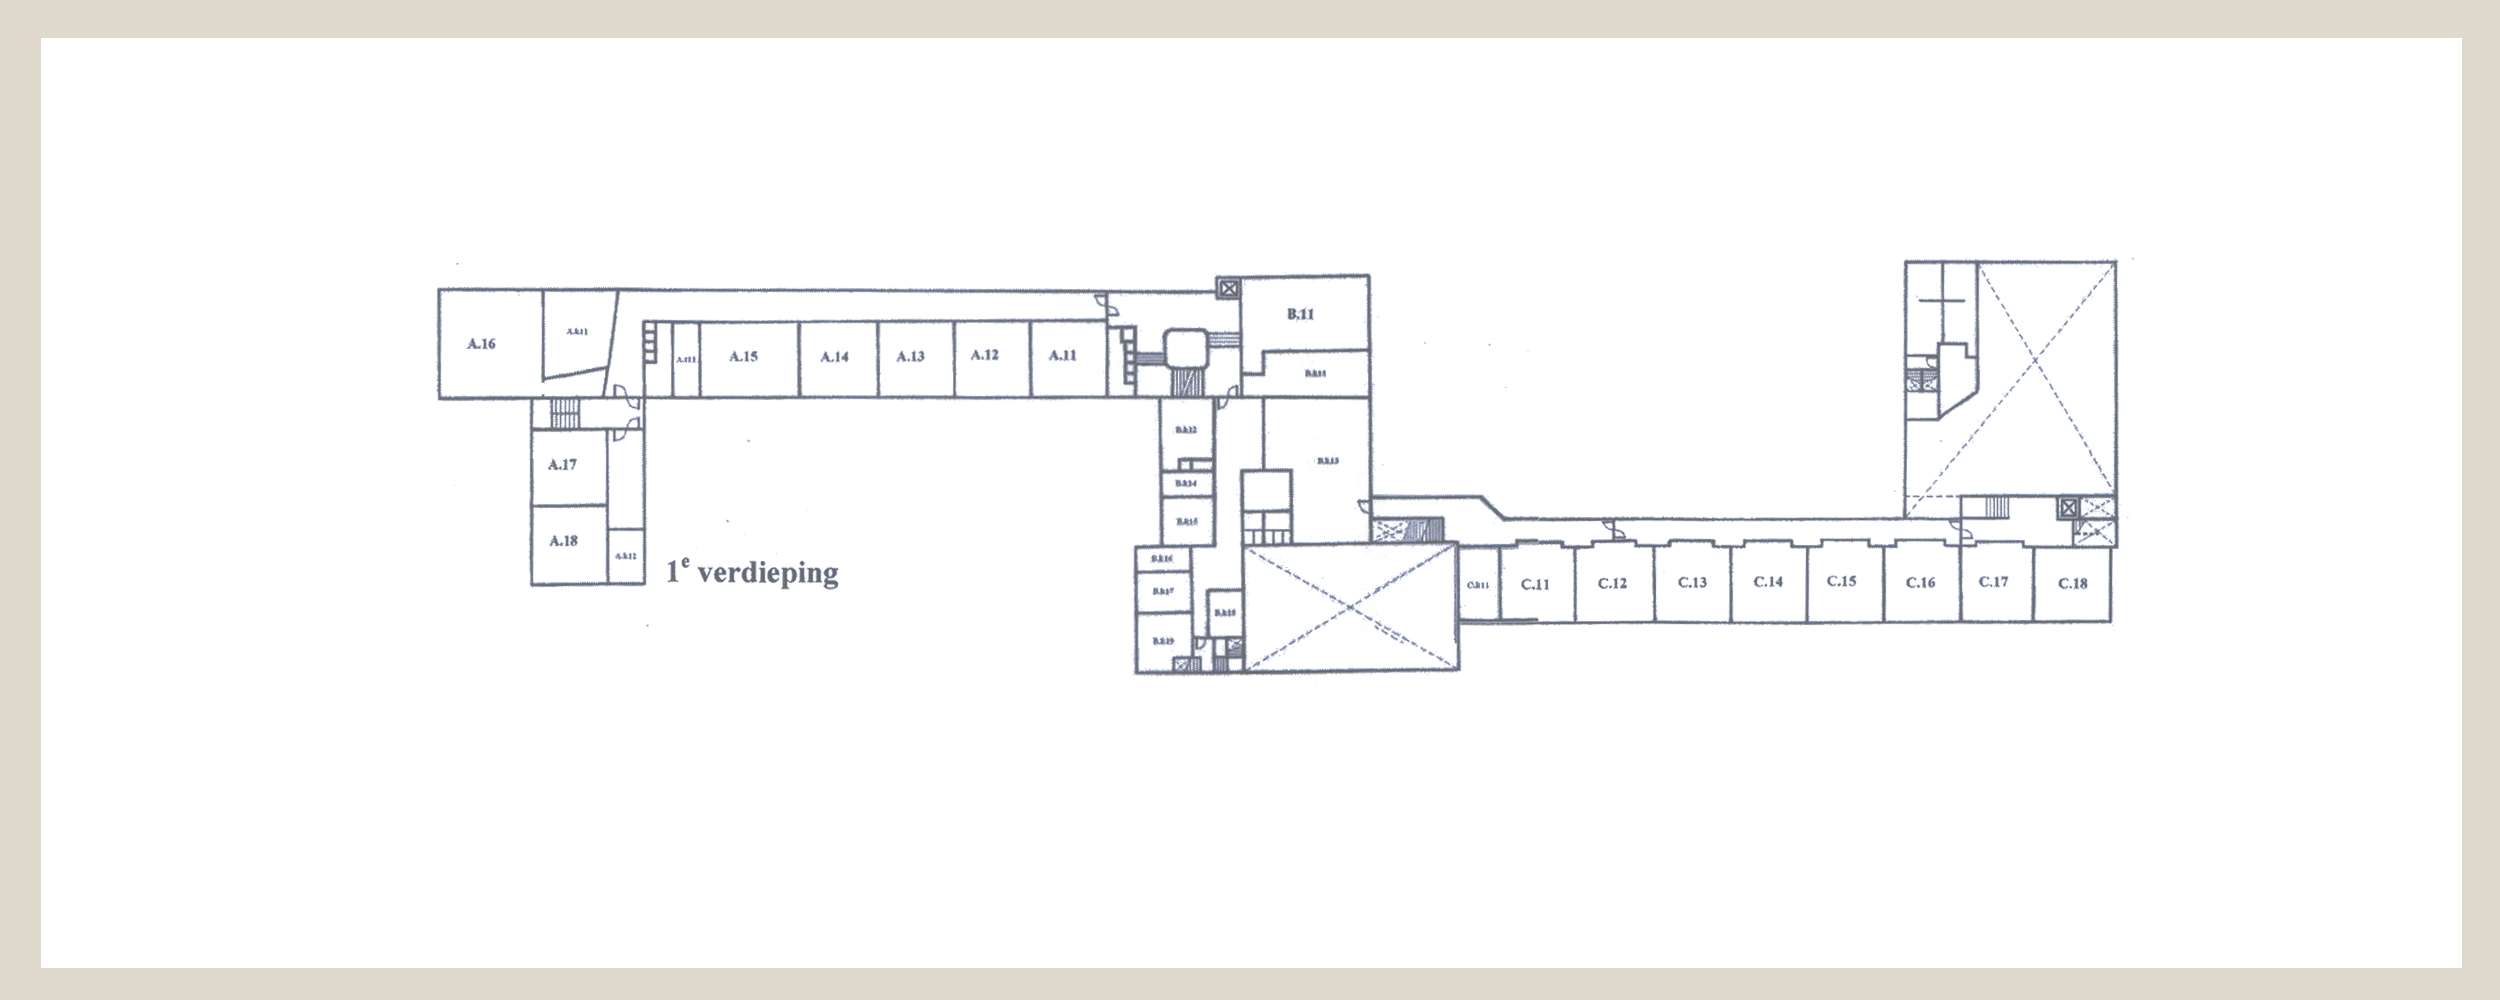
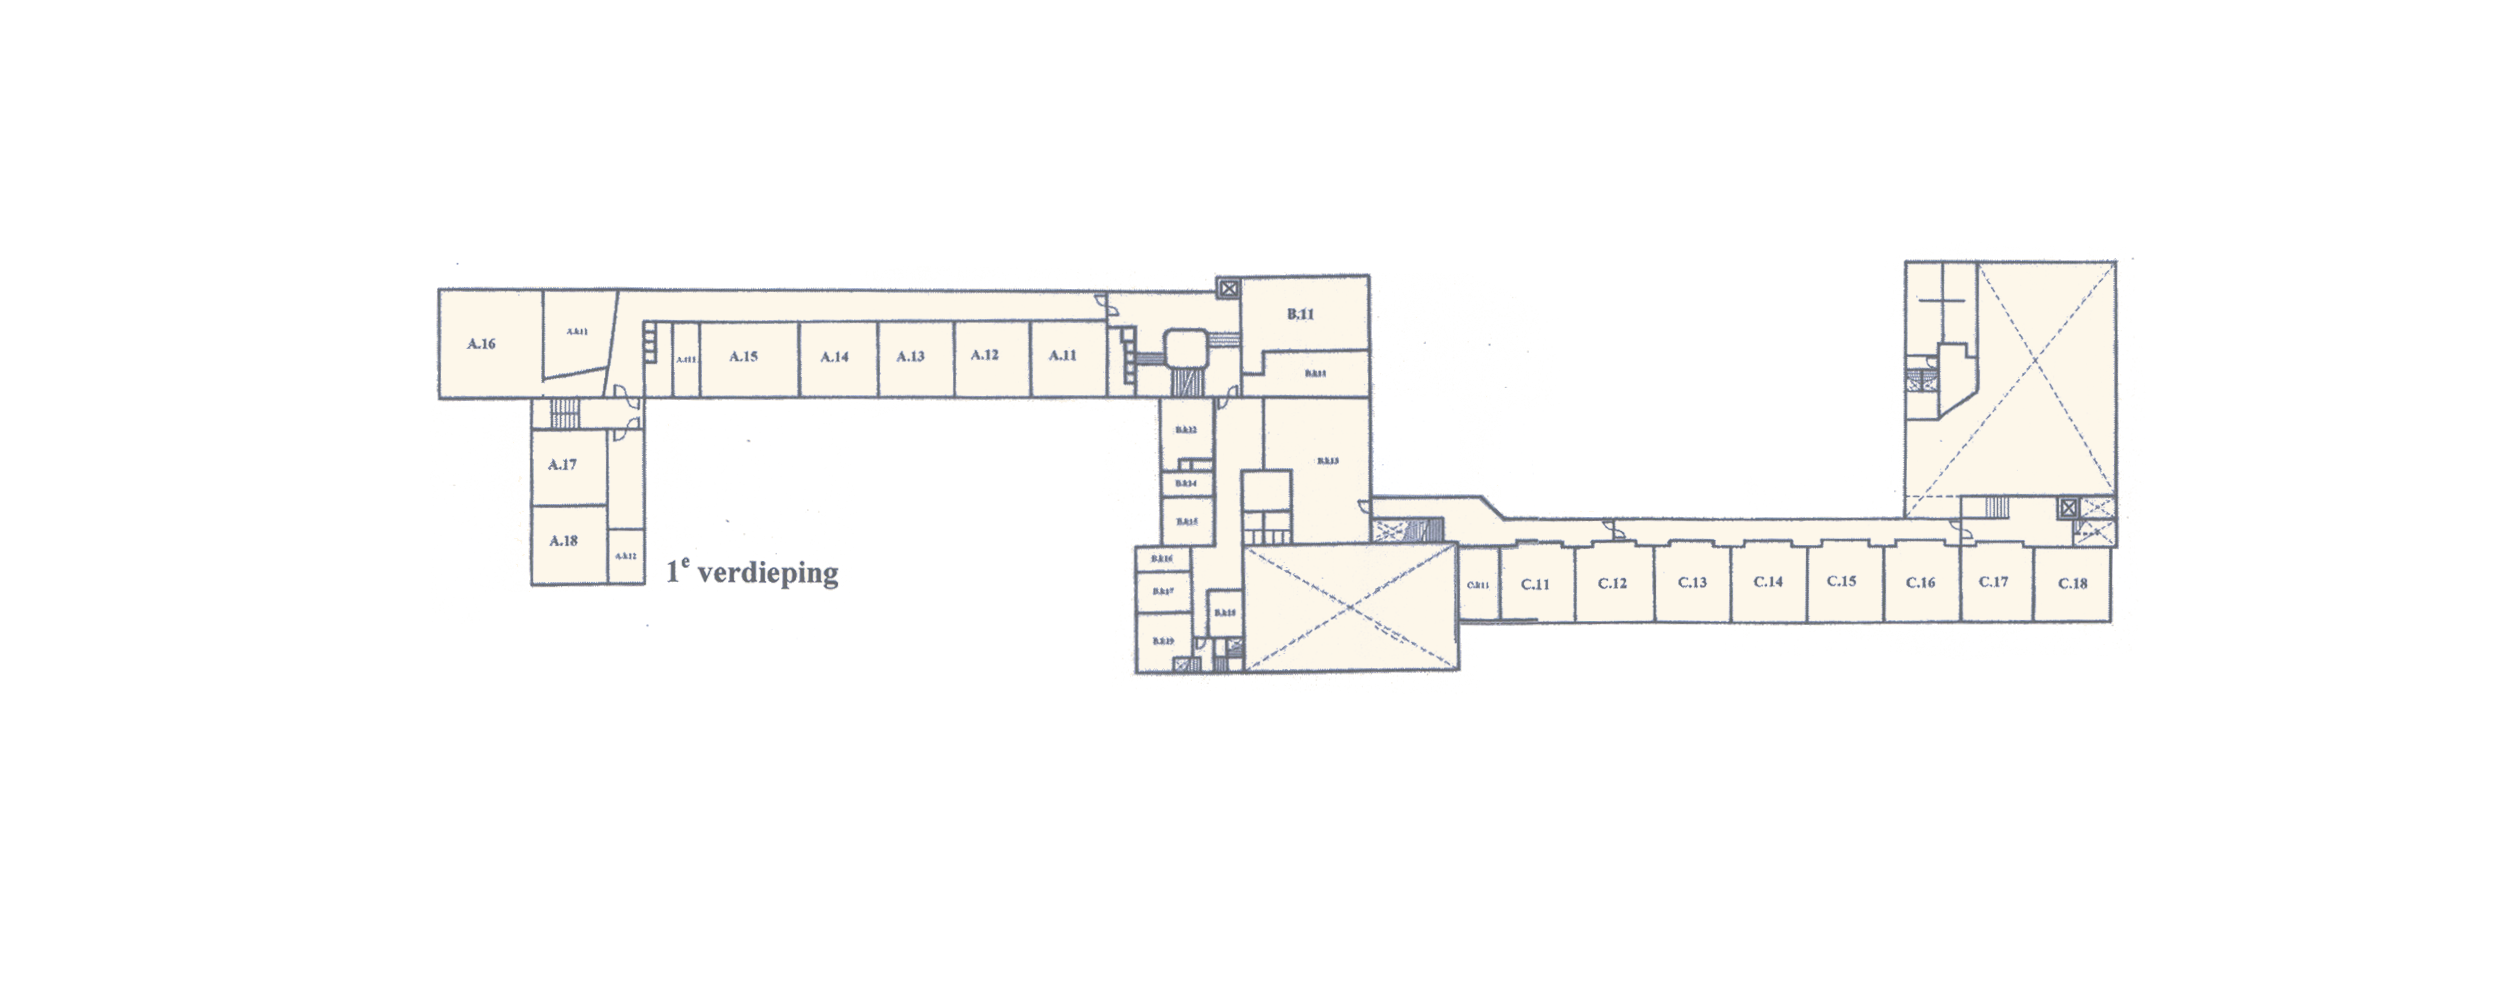
Update

Changed region(s): [[0.0, 0.0, 1.0, 1.0]]

diff --git a/js/controllers.js b/js/controllers.js
@@ -16,7 +16,7 @@ angular.module('app.controllers', [])
     var latLng = new google.maps.LatLng(position.coords.latitude, position.coords.longitude);
     var mapOptions = {
     center: {lat: 52.362398, lng: 4.825519},
-    zoom: 19,
+    zoom: 11,
     scrollwheel: false,
     navigationControl: false,
     mapTypeControl: false,
@@ -33,72 +33,68 @@ angular.module('app.controllers', [])
     };
 
 
-  /////////////////////////////////////////////
-  ////////////Floorplan Buttons///////////////
-  ///////////////////////////////////////////
+  ////////////////////////////////////////////////////////
+  ////////////Initialise floorplan overlay///////////////
+  //////////////////////////////////////////////////////
 
     var overlay;
     USGSOverlay.prototype = new google.maps.OverlayView();
 
-    function showFirstFloor(){
+    function buildMapWithOverlay(floor){
+
       // Load google map
       map = new google.maps.Map(document.getElementById("map"), mapOptions);
+      showLocation(map);
 
-      // Load floorplant overlay
-      var bounds = new google.maps.LatLngBounds(
-          new google.maps.LatLng(52.362200, 4.82440),
-          new google.maps.LatLng(52.362605, 4.825910));
-      var srcImage = 'img/2-A.png';
-      overlay = new USGSOverlay(bounds, srcImage, map);
-
-
-    }
-
-    function showSecondFloor(){
-      // Load google map
-      map = new google.maps.Map(document.getElementById("map"), mapOptions);
-
-      // Load floorplant overlay
-      var bounds = new google.maps.LatLngBounds(
-          new google.maps.LatLng(52.362200, 4.82440),
-          new google.maps.LatLng(52.362605, 4.825910));
-      var srcImage = 'img/smile.png';
-      overlay = new USGSOverlay(bounds, srcImage, map);
-
-
-    }
-
-    function showThirdFloor(){
-      // Load google map
-      map = new google.maps.Map(document.getElementById("map"), mapOptions);
-
-      // Load floorplant overlay
-      var bounds = new google.maps.LatLngBounds(
-          new google.maps.LatLng(52.362200, 4.82440),
-          new google.maps.LatLng(52.362605, 4.825910));
-      var srcImage = 'img/bier.jpg';
-      overlay = new USGSOverlay(bounds, srcImage, map);
-
-
-    }
-
-    new showFirstFloor();
-
-
-     $scope.showFirstFloor = function() {
-        showFirstFloor();
-      }
-      $scope.showSecondFloor = function() {
-        showSecondFloor();
-      }
-      $scope.showThirdFloor = function() {
-        showThirdFloor();
+      // Now load the right image for each floor
+      if(floor==1){
+        // Load floorplant overlay
+        var bounds = new google.maps.LatLngBounds(
+            new google.maps.LatLng(52.361950, 4.82385),
+            new google.maps.LatLng(52.362805, 4.827310));
+        var srcImage = 'img/beganegrond.png';
       }
 
+      if (floor==2){
+        // Load floorplant overlay
+        var bounds = new google.maps.LatLngBounds(
+            new google.maps.LatLng(52.361950, 4.82385),
+            new google.maps.LatLng(52.362805, 4.827310));
+        var srcImage = 'img/1e_verdieping.png';
+      }
 
-  //////////////////////////////////////////////
-  ////////////Image overlay code///////////////
+      if (floor==3){
+        // Load floorplant overlay
+        var bounds = new google.maps.LatLngBounds(
+            new google.maps.LatLng(52.361950, 4.82385),
+            new google.maps.LatLng(52.362805, 4.827310));
+        var srcImage = 'img/2e_verdieping.png';
+      }
+
+      // Create overlay
+      overlay = new USGSOverlay(bounds, srcImage, map);
+    }
+
+
+    // Initiliaze
+    new buildMapWithOverlay(floor=1);
+
+
+    // Buttons
+    $scope.showFirstFloor = function() {
+      buildMapWithOverlay(floor=1);
+    }
+    $scope.showSecondFloor = function() {
+      buildMapWithOverlay(floor=2);
+    }
+    $scope.showThirdFloor = function() {
+      buildMapWithOverlay(floor=3);
+    }
+
+
   ////////////////////////////////////////////
+  ////////////Image overlay lib///////////////
+  ///////////////////////////////////////////
 
        /** @constructor */
       function USGSOverlay(bounds, image, map) {
@@ -172,12 +168,35 @@ angular.module('app.controllers', [])
       };
 
 
-  //////////////////////////////////////////////////////
-  ////////////Show current user position///////////////
-  ////////////////////////////////////////////////////
+  /////////////////////////////////////////////////
+  ////////////Show current user lib///////////////
+  ///////////////////////////////////////////////
 
-  // Code here
-    
+    function showLocation(map){
+      (function(){/*
+       geolocation-marker version 2.0.4
+       @copyright 2012, 2015 Chad Killingsworth
+       @see https://github.com/ChadKillingsworth/geolocation-marker/blob/master/LICENSE.txt
+      */
+      'use strict';var b,d=this;
+      function g(a,c,e){google.maps.MVCObject.call(this);this.a=this.b=null;this.g=-1;var f={clickable:!1,cursor:"pointer",draggable:!1,flat:!0,icon:{url:"https://chadkillingsworth.github.io/geolocation-marker/images/gpsloc.png",size:new google.maps.Size(34,34),scaledSize:new google.maps.Size(17,17),origin:new google.maps.Point(0,0),anchor:new google.maps.Point(8,8)},optimized:!1,position:new google.maps.LatLng(0,0),title:"Current location",zIndex:2};c&&(f=h(f,c));c={clickable:!1,radius:0,strokeColor:"1bb6ff",
+      strokeOpacity:.4,fillColor:"61a0bf",fillOpacity:.4,strokeWeight:1,zIndex:1};e&&(c=h(c,e));this.b=new google.maps.Marker(f);this.a=new google.maps.Circle(c);google.maps.MVCObject.prototype.set.call(this,"accuracy",null);google.maps.MVCObject.prototype.set.call(this,"position",null);google.maps.MVCObject.prototype.set.call(this,"map",null);this.set("minimum_accuracy",null);this.set("position_options",{enableHighAccuracy:!0,maximumAge:1E3});this.a.bindTo("map",this.b);a&&this.f(a)}
+      (function(){var a=google.maps.MVCObject;function c(){}c.prototype=a.prototype;g.prototype=new c;g.prototype.constructor=g;for(var e in a)if(d.Object.defineProperties){var f=d.Object.getOwnPropertyDescriptor(a,e);void 0!==f&&d.Object.defineProperty(g,e,f)}else g[e]=a[e]})();b=g.prototype;b.set=function(a,c){if(k.test(a))throw"'"+a+"' is a read-only property.";"map"===a?this.f(c):google.maps.MVCObject.prototype.set.call(this,a,c)};b.i=function(){return this.get("map")};b.l=function(){return this.get("position_options")};
+      b.w=function(a){this.set("position_options",a)};b.c=function(){return this.get("position")};b.m=function(){return this.get("position")?this.a.getBounds():null};b.j=function(){return this.get("accuracy")};b.h=function(){return this.get("minimum_accuracy")};b.v=function(a){this.set("minimum_accuracy",a)};
+      b.f=function(a){google.maps.MVCObject.prototype.set.call(this,"map",a);a?navigator.geolocation&&(this.g=navigator.geolocation.watchPosition(this.A.bind(this),this.o.bind(this),this.l())):(this.b.unbind("position"),this.a.unbind("center"),this.a.unbind("radius"),google.maps.MVCObject.prototype.set.call(this,"accuracy",null),google.maps.MVCObject.prototype.set.call(this,"position",null),navigator.geolocation.clearWatch(this.g),this.g=-1,this.b.setMap(a))};b.u=function(a){this.b.setOptions(h({},a))};
+      b.s=function(a){this.a.setOptions(h({},a))};
+      b.A=function(a){var c=new google.maps.LatLng(a.coords.latitude,a.coords.longitude),e=null==this.b.getMap();if(e){if(null!=this.h()&&a.coords.accuracy>this.h())return;this.b.setMap(this.i());this.b.bindTo("position",this);this.a.bindTo("center",this,"position");this.a.bindTo("radius",this,"accuracy")}this.j()!=a.coords.accuracy&&google.maps.MVCObject.prototype.set.call(this,"accuracy",a.coords.accuracy);!e&&null!=this.c()&&this.c().equals(c)||google.maps.MVCObject.prototype.set.call(this,"position",
+      c)};b.o=function(a){google.maps.event.trigger(this,"geolocation_error",a)};function h(a,c){for(var e in c)!0!==l[e]&&(a[e]=c[e]);return a}var l={map:!0,position:!0,radius:!0},k=/^(?:position|accuracy)$/i;function m(){g.prototype.getAccuracy=g.prototype.j;g.prototype.getBounds=g.prototype.m;g.prototype.getMap=g.prototype.i;g.prototype.getMinimumAccuracy=g.prototype.h;g.prototype.getPosition=g.prototype.c;g.prototype.getPositionOptions=g.prototype.l;g.prototype.setCircleOptions=g.prototype.s;g.prototype.setMap=g.prototype.f;g.prototype.setMarkerOptions=g.prototype.u;g.prototype.setMinimumAccuracy=g.prototype.v;g.prototype.setPositionOptions=g.prototype.w;return g}
+      "function"===typeof this.define&&this.define.amd?this.define([],m):"object"===typeof this.exports?this.module.exports=m():this.GeolocationMarker=m();}).call(this)
+      //# sourceMappingURL=geolocation-marker.js.map
+
+      
+      // Now initialise the geolocation
+      var GeoMarker = new GeolocationMarker(map);
+    }
+
+
+
 
 
   }); // Close Cordova Geolocation

diff --git a/templates/plattegrond.html b/templates/plattegrond.html
@@ -4,9 +4,9 @@
 
 <div class="bar bar-subheader">
 	<div class="button-bar">
-	  <a class="button button-light" ng-click="showFirstFloor()">1ste etage</a>
-	  <a class="button button-light" ng-click="showSecondFloor()">2de etage</a>
-	  <a class="button button-light" ng-click="showThirdFloor()">3de etage</a>
+	  <a class="button button-light" ng-click="showFirstFloor()">begane grond</a>
+	  <a class="button button-light" ng-click="showSecondFloor()">1e verdieping</a>
+	  <a class="button button-light" ng-click="showThirdFloor()">2e verdieping</a>
 	</div>
 </div>
 
